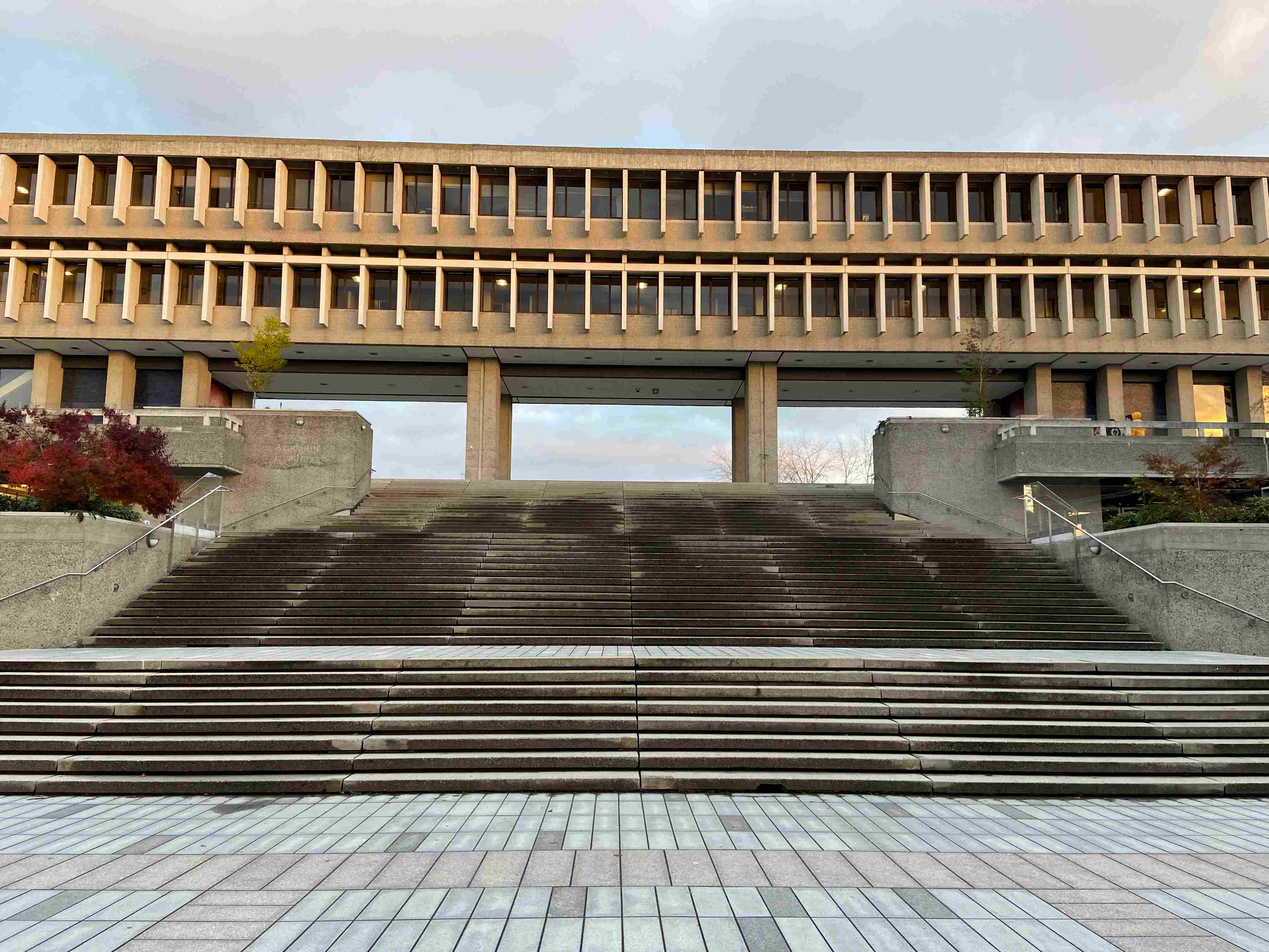
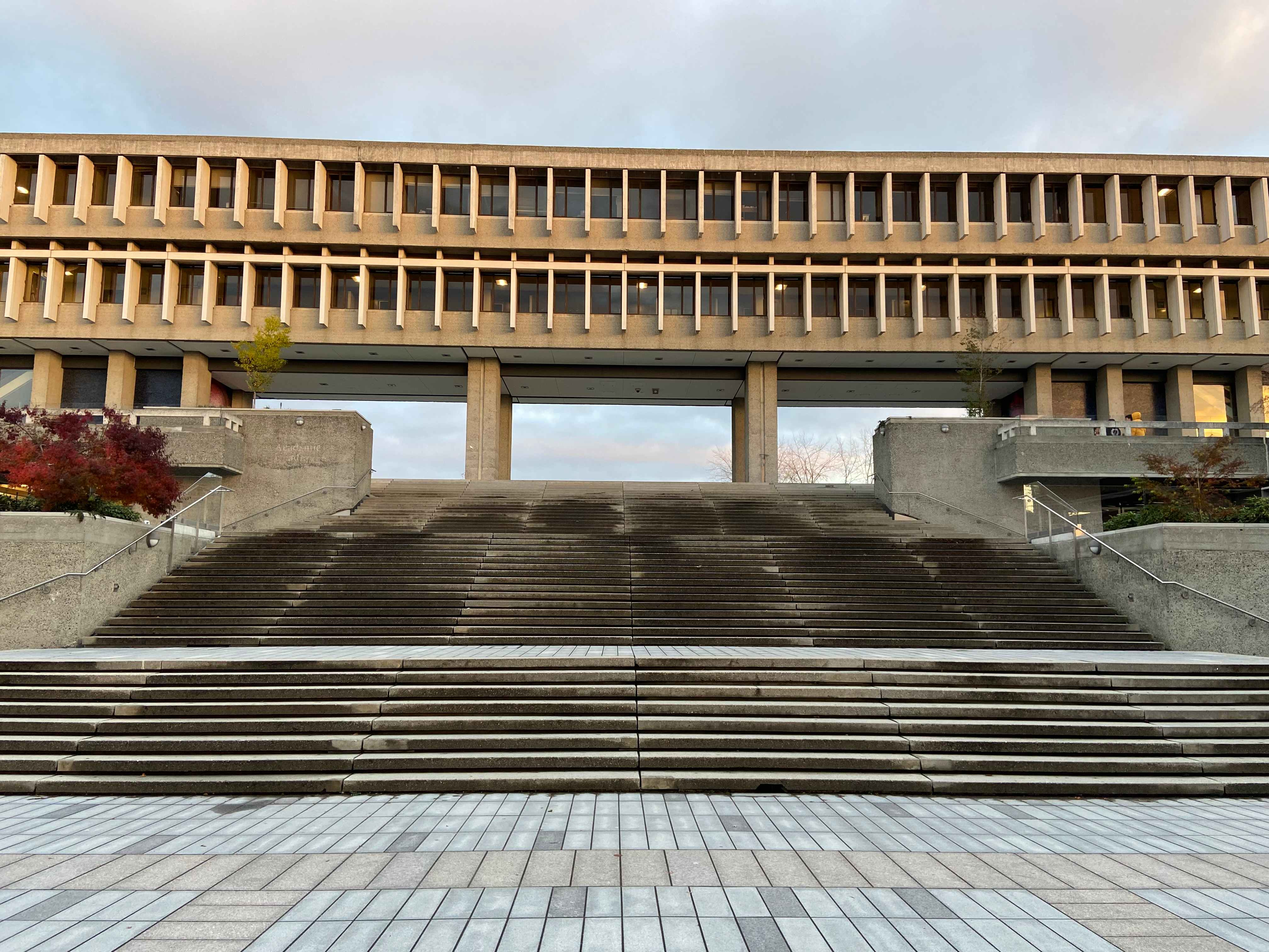
feat: improve location image quality (#56)
Increase max file size for location images from 500KB to 1MB.

diff --git a/scripts/optimizeImages.ts b/scripts/optimizeImages.ts
@@ -3,8 +3,8 @@ import sharp from 'sharp';
 
 const areasPath = 'public/areas';
 
-// Want images to not be more than 500KB.
-const targetMaxFileSize = 500000;
+// Want images to not be more than 1MB.
+const targetMaxFileSize = 1000000;
 
 // Function to optimize an image with a given quality.
 async function optimizeImage(
